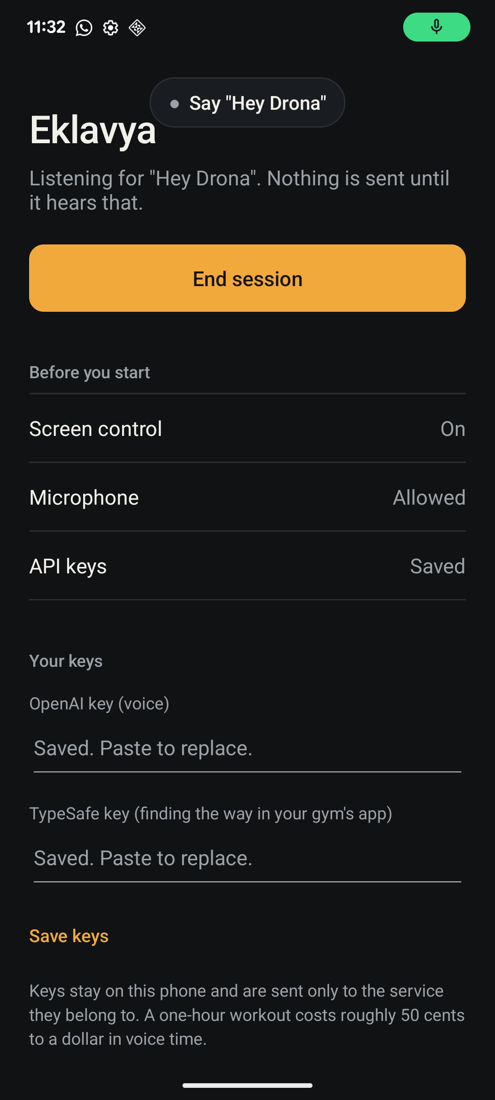
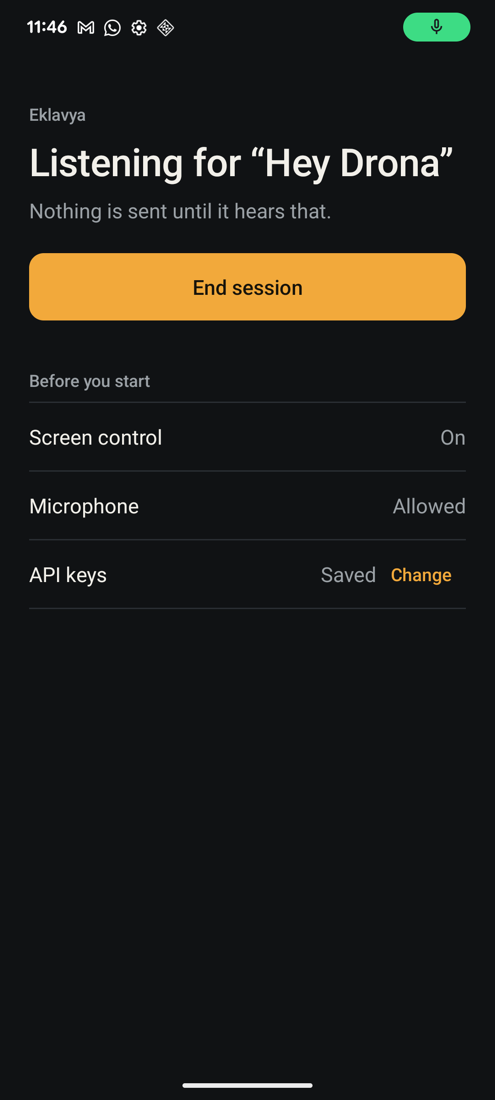
Make the session state the headline, fold saved keys away, keep the pill off Eklavya's own screen
From a fresh-eyes review of the setup screen against DESIGN.md:
- the state ("Listening for Hey Drona") is now the largest text; the
  app's name is a small label
- with both keys saved the key fields fold away behind Change / Cancel,
  and Save keys is amber only when there is something to save
- the pill asks whether Eklavya's screen is in front instead of being
  told, so it no longer shows there after the service restarts
- shorter wording, curly quotes, key fields aligned with their labels

diff --git a/app/src/main/kotlin/com/pragnyalabs/eklavya/MainActivity.kt b/app/src/main/kotlin/com/pragnyalabs/eklavya/MainActivity.kt
@@ -6,6 +6,8 @@ import android.content.Intent
 import android.content.pm.PackageManager
 import android.graphics.Typeface
 import android.os.Bundle
+import android.text.Editable
+import android.text.TextWatcher
 import android.view.View
 import android.widget.Button
 import android.widget.EditText
@@ -20,7 +22,13 @@ import com.pragnyalabs.eklavya.voice.WakeWord
  */
 class MainActivity : Activity() {
     private val status by lazy { findViewById<TextView>(R.id.status) }
+    private val statusDetail by lazy { findViewById<TextView>(R.id.status_detail) }
     private val session by lazy { findViewById<Button>(R.id.session) }
+    private val saveKeys by lazy { findViewById<Button>(R.id.save_keys) }
+    private val keyFields by lazy { listOf(findViewById<EditText>(R.id.openai_key), findViewById<EditText>(R.id.jev_key)) }
+
+    /** The user asked to replace saved keys; until then the key fields stay folded away. */
+    private var changingKeys = false
 
     override fun onCreate(savedInstanceState: Bundle?) {
         super.onCreate(savedInstanceState)
@@ -37,23 +45,42 @@ class MainActivity : Activity() {
             // Notifications are asked for in the same breath: the session shows one while it listens.
             requestPermissions(arrayOf(Manifest.permission.RECORD_AUDIO, Manifest.permission.POST_NOTIFICATIONS), 0)
         }
-        findViewById<Button>(R.id.save_keys).setOnClickListener {
-            save(R.id.openai_key, "openai_key")
-            save(R.id.jev_key, "jev_key")
+        // "Change" opens the key fields; the same button then reads "Cancel" and closes them unchanged.
+        findViewById<Button>(R.id.keys_action).setOnClickListener {
+            changingKeys = !changingKeys
+            keyFields.forEach { it.text.clear() }
             refresh()
         }
+        saveKeys.setOnClickListener {
+            save(R.id.openai_key, "openai_key")
+            save(R.id.jev_key, "jev_key")
+            changingKeys = false
+            refresh()
+        }
+        // "Save keys" is an action only once there is something to save.
+        val typed = object : TextWatcher {
+            override fun afterTextChanged(s: Editable?) {
+                saveKeys.isEnabled = keyFields.any { it.text.isNotBlank() }
+            }
+
+            override fun beforeTextChanged(s: CharSequence?, start: Int, count: Int, after: Int) = Unit
+            override fun onTextChanged(s: CharSequence?, start: Int, before: Int, count: Int) = Unit
+        }
+        keyFields.forEach { it.addTextChangedListener(typed) }
     }
 
     override fun onStart() {
         super.onStart()
+        inFront = true
         CoachService.onChange = ::refresh
-        EklavyaService.instance?.overlay?.hidden = true
+        EklavyaService.instance?.overlay?.refresh()
         refresh()
     }
 
     override fun onStop() {
+        inFront = false
         CoachService.onChange = null
-        EklavyaService.instance?.overlay?.hidden = false
+        EklavyaService.instance?.overlay?.refresh()
         super.onStop()
     }
 
@@ -73,23 +100,38 @@ class MainActivity : Activity() {
         val voiceKey = Settings.get(this, "openai_key") != null
         // Whichever decision model is selected must be fully set up, not just any key saved.
         val decisionKey = Settings.decider(this) != null
+        val keys = voiceKey && decisionKey
         val running = CoachService.instance != null
 
         row(R.id.screen_state, R.id.screen_action, screenOn)
         row(R.id.mic_state, R.id.mic_action, micOn)
-        findViewById<TextView>(R.id.keys_state).setText(if (voiceKey && decisionKey) R.string.state_saved else R.string.state_missing_keys)
+        findViewById<TextView>(R.id.keys_state).setText(if (keys) R.string.state_saved else R.string.state_missing_keys)
+        // With both keys saved, the fields fold away behind "Change".
+        findViewById<Button>(R.id.keys_action).apply {
+            visibility = if (keys) View.VISIBLE else View.GONE
+            setText(if (changingKeys) R.string.action_cancel else R.string.action_change)
+        }
+        findViewById<View>(R.id.keys_section).visibility = if (keys && !changingKeys) View.GONE else View.VISIBLE
         hint(R.id.openai_key, voiceKey)
         hint(R.id.jev_key, decisionKey)
+        saveKeys.isEnabled = keyFields.any { it.text.isNotBlank() }
 
-        val ready = screenOn && micOn && voiceKey && decisionKey
+        val ready = screenOn && micOn && keys
         session.isEnabled = ready || running
         session.setText(if (running) R.string.end_session else R.string.start_session)
+        val waiting = running && CoachService.current == CoachService.State.WAITING
         status.text = when {
-            running && CoachService.current == CoachService.State.WAITING -> getString(R.string.status_waiting, WakeWord.PHRASE)
+            waiting -> getString(R.string.status_waiting, WakeWord.PHRASE)
             running -> getString(R.string.status_talking)
             !ready -> getString(R.string.status_blocked)
             else -> getString(R.string.status_off)
         }
+        statusDetail.text = when {
+            waiting -> getString(R.string.status_waiting_detail)
+            !running && !ready -> getString(R.string.status_blocked_detail)
+            else -> ""
+        }
+        statusDetail.visibility = if (statusDetail.text.isEmpty()) View.GONE else View.VISIBLE
     }
 
     /** A setup row shows its state when it is done and its action when it is not, never both. */
@@ -103,5 +145,12 @@ class MainActivity : Activity() {
         input.setHint(if (saved) R.string.key_hint_saved else R.string.key_hint_empty)
         // A password field switches itself to a monospace face; keep the screen in one typeface.
         input.typeface = Typeface.DEFAULT
+    }
+
+    companion object {
+        /** True while this screen is visible; the status pill stays away then, since the screen says the same. */
+        @Volatile
+        var inFront = false
+            private set
     }
 }

diff --git a/app/src/main/kotlin/com/pragnyalabs/eklavya/StatusOverlay.kt b/app/src/main/kotlin/com/pragnyalabs/eklavya/StatusOverlay.kt
@@ -30,12 +30,8 @@ class StatusOverlay(private val service: AccessibilityService) {
         render()
     }
 
-    /** While Eklavya's own screen is in front the pill stays away: that screen already says the same thing. */
-    var hidden = false
-        set(value) {
-            field = value
-            show(state, null)
-        }
+    /** Call when Eklavya's own screen comes to the front or leaves it: the pill stays away while it is there. */
+    fun refresh() = show(state, null)
 
     /** Shows [state], or hides the pill when it is null. An [error] replaces the text for a few seconds. */
     fun show(state: CoachService.State?, error: String?) {
@@ -45,7 +41,7 @@ class StatusOverlay(private val service: AccessibilityService) {
             handler.removeCallbacks(clearError)
             handler.postDelayed(clearError, ERROR_MS)
         }
-        if (state == null || hidden) {
+        if (state == null || MainActivity.inFront) {
             pill?.let(windows::removeView)
             pill = null
             return

diff --git a/DESIGN.md b/DESIGN.md
@@ -42,6 +42,9 @@ buttons and a full round for the pill.
 - More space above a section heading than below it.
 - A saved key is never shown again; the field only says it is saved.
 - The pill never takes a touch and hides itself while Eklavya's own screen is in front.
+- The session's state is the largest text on the screen (display role); the app's name is a small label above it.
+- Once both keys are saved the key fields fold away behind "Change"; a saved thing is said once.
+- A quiet button is amber only while it can do something; with nothing to save it is grey.
 
 ## Never
 
